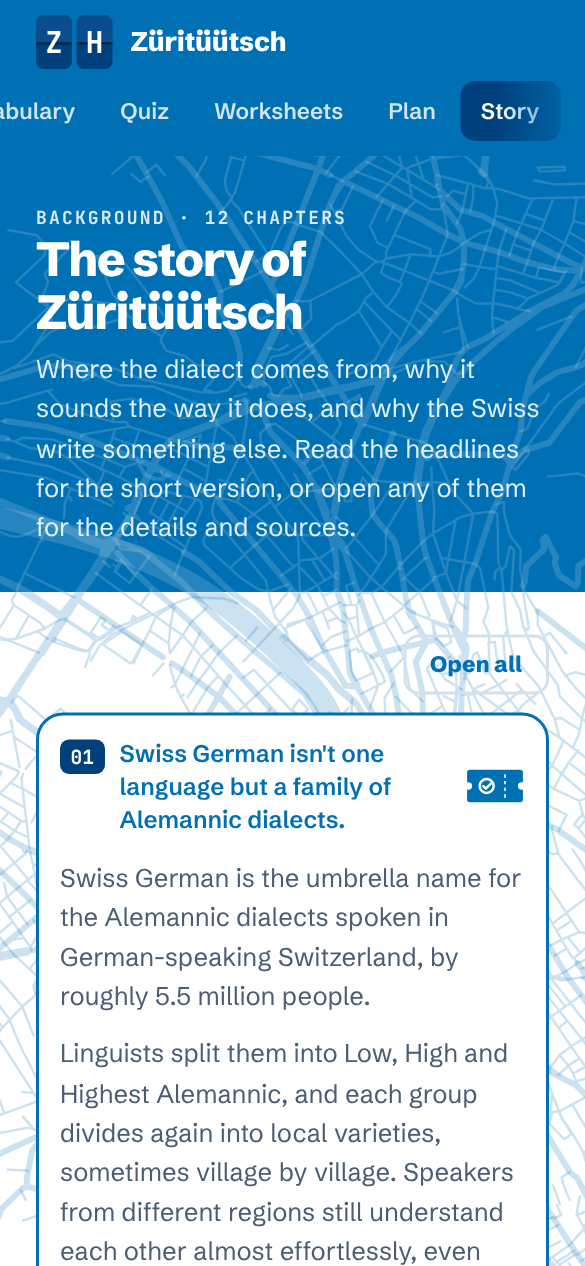
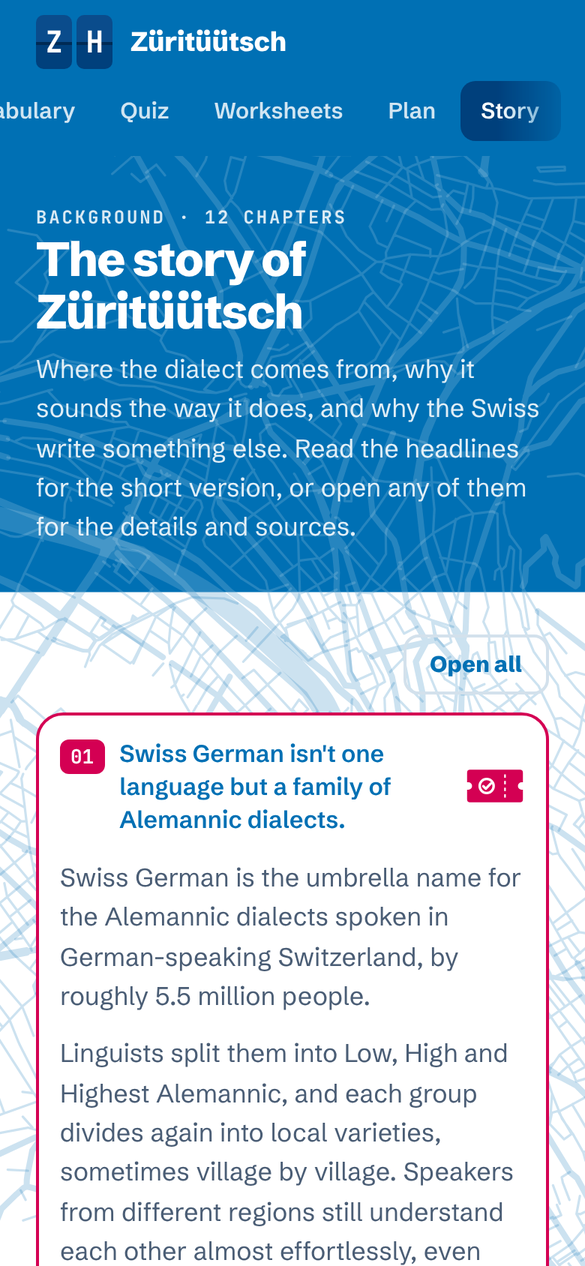
Magenta accents on Start and Story

diff --git a/styles.css b/styles.css
@@ -200,7 +200,7 @@ input[type="text"]:disabled { background: var(--panel); color: var(--ink-2); }
 /* Intro cards under the band */
 .intro-grid { display: grid; grid-template-columns: repeat(3, 1fr); gap: 16px; padding-top: 40px; padding-bottom: 56px; }
 .intro-card { background: var(--panel); border-radius: var(--r-lg); padding: 24px; display: flex; flex-direction: column; gap: 8px; }
-.intro-card .num { font-family: var(--mono); font-weight: 700; font-size: 2rem; color: var(--blau); line-height: 1; }
+.intro-card .num { font-family: var(--mono); font-weight: 700; font-size: 2rem; color: var(--magenta); line-height: 1; }
 .intro-card h2 { margin: 4px 0 0; font-size: 1.25rem; letter-spacing: -0.01em; }
 .intro-card p { margin: 0; color: var(--ink-2); font-size: 0.9375rem; flex: 1; }
 .link-arrow { font-weight: 700; text-decoration: none; }
@@ -611,7 +611,7 @@ body[data-bg="wall"] main::before, body[data-bg="wall"] .footer::before, .band-w
 .section-label { margin: 0 0 14px; font-family: var(--mono); font-size: 0.75rem; font-weight: 700; text-transform: uppercase; letter-spacing: 0.12em; color: var(--blau); }
 .start-more { margin: 20px 0 0; color: var(--ink-2); max-width: 720px; }
 .about-note {
-  margin-top: 40px; background: #fff; border: 2px solid var(--line); border-left: 6px solid var(--blau);
+  margin-top: 40px; background: #fff; border: 2px solid var(--line); border-left: 6px solid var(--magenta);
   border-radius: var(--r-lg); padding: 24px 28px; max-width: 760px;
 }
 .about-note h2 { margin: 0 0 8px; font-size: 1.25rem; letter-spacing: -0.01em; }
@@ -626,7 +626,9 @@ body[data-bg="wall"] main::before, body[data-bg="wall"] .footer::before, .band-w
 .story-tools { display: flex; justify-content: flex-end; max-width: 820px; margin-bottom: 12px; }
 .story { list-style: none; margin: 0; padding: 0; max-width: 820px; display: grid; gap: 10px; }
 .story > li { scroll-margin-top: 140px; background: #fff; border: 2px solid var(--line); border-radius: var(--r-lg); transition: border-color 0.15s; }
-.story > li.is-open { border-color: var(--blau); }
+/* Magenta marks the chapter you are reading: border, number and stamped ticket */
+.story > li.is-open { border-color: var(--magenta); }
+.story > li.is-open .story-num { background: var(--magenta); }
 .story h3 { margin: 0; font-size: inherit; }
 .story-q {
   width: 100%; display: grid; grid-template-columns: auto 1fr auto; gap: 14px; align-items: center;
@@ -646,7 +648,7 @@ body[data-bg="wall"] main::before, body[data-bg="wall"] .footer::before, .band-w
 .story-ticket .t-perf { stroke: var(--blau); stroke-width: 1; stroke-dasharray: 2 2; fill: none; }
 .story-ticket .t-stamp { fill: none; stroke: #fff; stroke-width: 1.5; stroke-linecap: round; stroke-linejoin: round; opacity: 0; transform-origin: 13px 11px; transform: scale(1.6) rotate(-20deg); transition: opacity 0.18s, transform 0.22s; }
 .story-q:hover .story-ticket .t-body { fill: #DCE9F4; }
-.story-q[aria-expanded="true"] .story-ticket .t-body { fill: var(--blau); }
+.story-q[aria-expanded="true"] .story-ticket .t-body { fill: var(--magenta); stroke: var(--magenta); }
 .story-q[aria-expanded="true"] .story-ticket .t-perf { stroke: #fff; }
 .story-q[aria-expanded="true"] .story-ticket .t-stamp { opacity: 1; transform: none; }
 .story-a { padding: 0 18px 18px 64px; }

diff --git a/README.md b/README.md
@@ -42,7 +42,7 @@ Zurich German isn't a variant of Standard German but its close relative: both gr
 
 ## Design
 
-The look borrows from the split-flap departure board and uses Zurich's city colours, over a street map of Zurich from Oerlikon to Enge that stays still while the page scrolls. Every tab opens with a blue band. The three levels are named after Zurich's tram tickets: a short hop, the whole city, the whole canton. The practice pages (Decode, Vocabulary, Quiz and Worksheets) use a wall of faint split-flap tiles instead of the map, which now and then flip to a new letter. Colours: **Blau** with white as the main pair, **Dunkelblau** for the flaps, and **Magenta** as the one accent colour, for answers, levels, exceptions and false friends. The fonts are Schibsted Grotesk and JetBrains Mono, both served from this repo. Schibsted Grotesk is a sturdy newspaper grotesque in the spirit of Swiss poster type, and the same font is used across all of Cemre's Zurich projects.
+The look borrows from the split-flap departure board and uses Zurich's city colours, over a street map of Zurich from Oerlikon to Enge that stays still while the page scrolls. Every tab opens with a blue band. The three levels are named after Zurich's tram tickets: a short hop, the whole city, the whole canton. The practice pages (Decode, Vocabulary, Quiz and Worksheets) use a wall of faint split-flap tiles instead of the map, which now and then flip to a new letter. Colours: **Blau** with white as the main pair, **Dunkelblau** for the flaps, and **Magenta** as the one accent colour: for levels, wrong answers, exceptions and false friends, the numbers on the Start page and the story chapter you're reading. Right answers are light blue. The fonts are Schibsted Grotesk and JetBrains Mono, both served from this repo. Schibsted Grotesk is a sturdy newspaper grotesque in the spirit of Swiss poster type, and the same font is used across all of Cemre's Zurich projects.
 
 ## How it's built
 
